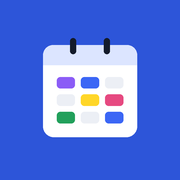
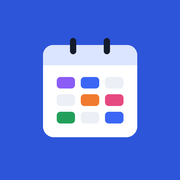
Add files via upload

Changed region(s): [[0.4444, 0.5, 0.5556, 0.6111]]

diff --git a/index.html b/index.html
@@ -27,7 +27,6 @@ html{-webkit-text-size-adjust:100%;-webkit-tap-highlight-color:transparent}
 :root{
   --paper:#F3F5F9; --surface:#FFFFFF; --ink:#141B2B; --muted:#576274; --line:#E0E5EE; --grid:#EEF1F6;
   --accent:#2D55D9; --accent-ink:#FFFFFF; --accent-soft:#E6ECFD;
-  --hl:rgba(255,222,40,.34); --hl-ink:#7A6200;
   --warn:#C2410C; --ok:#2F7D32; --danger:#B42318; --sun:#D23B3B; --sat:#2D55D9;
   --c0-bg:#E8EEFF; --c0-fg:#1A3483; --c0-bd:#3B66F5;
   --c1-bg:#F1EAFE; --c1-fg:#4C1D95; --c1-bd:#8B5CF6;
@@ -35,7 +34,7 @@ html{-webkit-text-size-adjust:100%;-webkit-tap-highlight-color:transparent}
   --c3-bg:#FDE8EF; --c3-fg:#881337; --c3-bd:#E64980;
   --c4-bg:#FFEDE3; --c4-fg:#7C2D12; --c4-bd:#F07A2E;
   --c5-bg:#DFF5F3; --c5-fg:#134E4A; --c5-bd:#14A39A;
-  --c6-bg:#FDF3D7; --c6-fg:#713F12; --c6-bd:#D99A00;
+  --c6-bg:#FDE7E7; --c6-fg:#8A1C1C; --c6-bd:#E5484D;
   --c7-bg:#ECEFF4; --c7-fg:#334155; --c7-bd:#7A889E;
   --f-display:"Do Hyeon","IBM Plex Sans KR",system-ui,sans-serif;
   --f-body:"IBM Plex Sans KR","Apple SD Gothic Neo","Malgun Gothic",system-ui,sans-serif;
@@ -44,7 +43,6 @@ html{-webkit-text-size-adjust:100%;-webkit-tap-highlight-color:transparent}
 @media (prefers-color-scheme: dark){:root:not([data-theme="light"]){
   --paper:#0E1219; --surface:#151A24; --ink:#EDF0F6; --muted:#A1ABBD; --line:#272F3F; --grid:#1B2230;
   --accent:#7393FF; --accent-ink:#0B1020; --accent-soft:#1E2848;
-  --hl:rgba(255,222,70,.13); --hl-ink:#E9D46A;
   --warn:#FB923C; --ok:#6BCB77; --danger:#F87171; --sun:#FF8A8A; --sat:#8FA8FF;
   --c0-bg:#1B2647; --c0-fg:#D3DDFF; --c0-bd:#6F8FFF;
   --c1-bg:#281D45; --c1-fg:#E4D6FF; --c1-bd:#A684FF;
@@ -52,13 +50,12 @@ html{-webkit-text-size-adjust:100%;-webkit-tap-highlight-color:transparent}
   --c3-bg:#381625; --c3-fg:#FFCCDD; --c3-bd:#F06A9A;
   --c4-bg:#382014; --c4-fg:#FFD3BB; --c4-bd:#F59152;
   --c5-bg:#10302D; --c5-fg:#B0EEE8; --c5-bd:#2EC4B6;
-  --c6-bg:#31280C; --c6-fg:#F8E2A2; --c6-bd:#E8B520;
+  --c6-bg:#3A1717; --c6-fg:#FFC9C9; --c6-bd:#F2555A;
   --c7-bg:#222936; --c7-fg:#D3DAE5; --c7-bd:#8F9BB0;
   color-scheme:dark}}
 :root[data-theme="dark"]{
   --paper:#0E1219; --surface:#151A24; --ink:#EDF0F6; --muted:#A1ABBD; --line:#272F3F; --grid:#1B2230;
   --accent:#7393FF; --accent-ink:#0B1020; --accent-soft:#1E2848;
-  --hl:rgba(255,222,70,.13); --hl-ink:#E9D46A;
   --warn:#FB923C; --ok:#6BCB77; --danger:#F87171; --sun:#FF8A8A; --sat:#8FA8FF;
   --c0-bg:#1B2647; --c0-fg:#D3DDFF; --c0-bd:#6F8FFF;
   --c1-bg:#281D45; --c1-fg:#E4D6FF; --c1-bd:#A684FF;
@@ -66,7 +63,7 @@ html{-webkit-text-size-adjust:100%;-webkit-tap-highlight-color:transparent}
   --c3-bg:#381625; --c3-fg:#FFCCDD; --c3-bd:#F06A9A;
   --c4-bg:#382014; --c4-fg:#FFD3BB; --c4-bd:#F59152;
   --c5-bg:#10302D; --c5-fg:#B0EEE8; --c5-bd:#2EC4B6;
-  --c6-bg:#31280C; --c6-fg:#F8E2A2; --c6-bd:#E8B520;
+  --c6-bg:#3A1717; --c6-fg:#FFC9C9; --c6-bd:#F2555A;
   --c7-bg:#222936; --c7-fg:#D3DAE5; --c7-bd:#8F9BB0;
   color-scheme:dark}
 *{box-sizing:border-box}
@@ -80,7 +77,7 @@ h1,h2,h3{text-wrap:balance}
 body::before{content:"";position:fixed;inset:0 0 auto;height:env(safe-area-inset-top,0px);z-index:13;background:var(--paper)}
 .top .wrap{display:flex;align-items:center;gap:18px;padding-block:10px}
 .logo{font-family:var(--f-display);font-size:30px;line-height:1;position:relative;isolation:isolate;border:0;background:none;padding:0 2px}
-.logo::after{content:"";position:absolute;left:-3px;right:-3px;bottom:3px;height:11px;background:var(--hl);z-index:-1;border-radius:2px}
+.logo{color:var(--accent)}
 .topnav{display:flex;gap:2px;flex:1}
 .topnav button{border:0;background:transparent;padding:7px 12px;border-radius:8px;color:var(--muted);font-size:14px}
 .topnav button:hover{color:var(--ink);background:var(--grid)}
@@ -109,7 +106,7 @@ main{padding-block:18px 60px}
 .fakeinput{display:flex;align-items:center;gap:10px;width:100%;text-align:left;border:1px solid var(--line);background:var(--surface);border-radius:12px;padding:13px 14px;color:var(--muted);font-size:15px}
 .fakeinput:hover{border-color:var(--accent)}
 .fakeinput .plus{width:26px;height:26px;border-radius:8px;background:var(--accent);color:var(--accent-ink);display:grid;place-items:center;font-size:18px;flex:none}
-.banner{display:flex;flex-wrap:wrap;gap:10px 14px;align-items:center;justify-content:space-between;border:1px solid var(--c6-bd);background:var(--c6-bg);color:var(--c6-fg);border-radius:12px;padding:12px 14px}
+.banner{display:flex;flex-wrap:wrap;gap:10px 14px;align-items:center;justify-content:space-between;border:1px solid color-mix(in srgb,var(--accent) 35%,transparent);background:var(--accent-soft);color:var(--ink);border-radius:12px;padding:12px 14px}
 .banner .acts{display:flex;gap:6px;flex-wrap:wrap}
 .welcome{display:grid;gap:12px}
 .welcome h3{margin:0;font-family:var(--f-display);font-weight:400;font-size:24px}
@@ -136,8 +133,12 @@ main{padding-block:18px 60px}
 .tlr .tx span{font-size:12px;color:var(--muted)}
 .tlr.task .bar{background:repeating-linear-gradient(180deg,var(--bd) 0 4px,transparent 4px 7px)}
 .tlr.past{opacity:.45}
-.tlr.gap .bar{background:var(--hl);min-height:22px}
-.tlr.gap .tx b{font-weight:500;color:var(--hl-ink)}
+.tlr.gap{padding:4px 0}
+.tlr.gap .bar{background:none;border-left:2px dashed var(--line);border-radius:0;min-height:18px;margin-left:1px}
+.tlr.gap .tm{opacity:.6}
+.tlr.gap .tx b{font-weight:400;font-size:12.5px;color:var(--muted)}
+.tlr.gap .tx span{display:none}
+.tlr.gap:hover .tx span{display:inline}
 .tlr.now-row .tm{color:var(--danger);font-weight:500}
 .duel{display:grid;gap:4px;padding:10px 0;border-top:1px solid var(--line)}
 .duel:first-child{border-top:0}
@@ -216,8 +217,6 @@ main{padding-block:18px 60px}
 .tcol span{position:absolute;right:6px;font-family:var(--f-mono);font-size:10.5px;color:var(--muted);transform:translateY(-7px)}
 .dcol{position:relative;border-left:1px solid var(--line);cursor:copy}
 .dcol.past{background-color:color-mix(in srgb,var(--grid) 40%,transparent)}
-.gap{position:absolute;left:0;right:0;background:var(--hl);pointer-events:none;display:flex;align-items:flex-end;justify-content:flex-end;padding:2px 6px}
-.gap span{font-size:10.5px;font-weight:700;color:var(--hl-ink)}
 .ev{position:absolute;border-radius:7px;padding:3px 7px;font-size:12.5px;line-height:1.3;overflow:hidden;border:1px solid color-mix(in srgb,var(--bd) 30%,transparent);border-left:4px solid var(--bd);cursor:pointer;text-align:left;display:flex;flex-direction:column;gap:1px;background:var(--bg);color:var(--fg)}
 .ev:hover{filter:brightness(.97);z-index:3}
 .ev .et{font-weight:700;white-space:nowrap;overflow:hidden;text-overflow:ellipsis}
@@ -232,7 +231,6 @@ main{padding-block:18px 60px}
 .legend{display:flex;flex-wrap:wrap;gap:8px 16px;padding:10px 14px;border-top:1px solid var(--line);font-size:12px;color:var(--muted)}
 .legend i{display:inline-block;width:14px;height:11px;border-radius:3px;vertical-align:-1px;margin-right:5px}
 .legend .p-task{background:repeating-linear-gradient(135deg,var(--c7-bg) 0 3px,var(--surface) 3px 6px);border:1px dashed var(--c7-bd)}
-.legend .p-gap{background:var(--hl)}
 .two{display:grid;grid-template-columns:minmax(0,1.4fr) minmax(0,1fr);gap:16px;align-items:start}
 .task{display:grid;grid-template-columns:auto minmax(0,1fr) auto;gap:4px 10px;align-items:start;padding:11px 0;border-top:1px solid var(--line)}
 .task:first-of-type{border-top:0}
@@ -592,10 +590,6 @@ function timeGrid(dates,px,mode){
     const busy=busyOf(all),pct=Math.min(100,busy/(DAY_E-DAY_S)*100),lvl=busy>=9*60?'high':busy>=6*60?'mid':'';
     if(!single)head+=`<button class="dh ${wkCls(i)} ${ds===todayS?'today':''}" data-openday="${ds}"><div class="top2"><span class="dn">${DAYS[i]}</span><span class="dd">${d.getDate()}</span>${busy>=9*60?'<span class="busy">과부하</span>':''}</div><div class="dens" title="바쁜 시간 ${hrs(busy)}"><i class="${lvl}" style="width:${pct}%"></i></div></button>`;
     let inner='';
-    if(d>=T){
-      const ws=ds===todayS?Math.max(DAY_S,Math.ceil(nowMin()/30)*30):DAY_S;
-      freeGaps(all,ws,DAY_E).forEach(g=>{if(g.e-g.s>=60)inner+=`<div class="gap" style="top:${(g.s/60-H0)*px}px;height:${(g.e-g.s)/60*px}px"><span>틈 ${hrs(g.e-g.s)}</span></div>`});
-    }
     layout(all.filter(x=>!state.hidden.includes(x.cat))).forEach(it=>{
       const k=reg(it);
       const top=(it.s/60-H0)*px,h=Math.max(18,(it.e-it.s)/60*px-2),w=100/it.lanes;
@@ -615,7 +609,7 @@ function timelineHTML(ds,withGaps){
   }
   rows.sort((a,b)=>a.s-b.s);
   let html=rows.map(r=>{
-    if(r.type==='gap')return `<button class="tlr gap" data-add data-date="${ds}" data-time="${toHM(r.g.s)}" data-end="${toHM(r.g.e)}"><span class="tm">${toHM(r.g.s)}<small>${toHM(r.g.e)}</small></span><span class="bar"></span><span class="tx"><b>빈 틈 ${hrs(r.g.e-r.g.s)}</b><span>눌러서 이 시간에 일정 넣기</span></span><span></span></button>`;
+    if(r.type==='gap')return `<button class="tlr gap" data-add data-date="${ds}" data-time="${toHM(r.g.s)}" data-end="${toHM(r.g.e)}"><span class="tm">${toHM(r.g.s)}<small>${toHM(r.g.e)}</small></span><span class="bar"></span><span class="tx"><b>빈 시간 ${hrs(r.g.e-r.g.s)}</b><span> · 눌러서 일정 넣기</span></span><span></span></button>`;
     const it=r.it,past=isToday&&it.e<=nm,cur=isToday&&it.s<=nm&&it.e>nm;
     const tag=it.kind==='repeat'?'↻ 매주':it.kind==='task'?'과제 작업':'';
     return `<button class="tlr ${it.kind==='task'?'task':''} ${past?'past':''} ${cur?'now-row':''}" data-ev="${reg(it)}" style="${cvars(it.cat)}"><span class="tm">${toHM(it.s)}<small>${toHM(it.e)}</small></span><span class="bar"></span><span class="tx"><b>${esc(it.title)}</b><span>${[cur?'지금 진행 중':'',tag,it.place].filter(Boolean).map(esc).join(' · ')}</span></span>${pill(it.cat)}</button>`;
@@ -712,7 +706,7 @@ function vCal(){
     const mon=mondayOf(d),e=addDays(mon,6);
     ttl=`${mon.getMonth()+1}월 ${mon.getDate()}일 – ${e.getMonth()===mon.getMonth()?'':(e.getMonth()+1)+'월 '}${e.getDate()}일`;
     body=`<section class="card calcard swipe">${timeGrid([0,1,2,3,4,5,6].map(i=>addDays(mon,i)),46,'week')}
-      <div class="legend"><span><i class="p-task"></i>과제 작업 (자동 배치)</span><span><i class="p-gap"></i>1시간 이상 빈 틈</span><span>↻ 매주 반복 · 날짜를 누르면 하루 보기 · 빈 칸을 누르면 그 시간에 추가</span></div></section>
+      <div class="legend"><span><i class="p-task"></i>과제 작업 (자동 배치)</span><span>↻ 매주 반복 · 날짜를 누르면 하루 보기 · 빈 칸을 누르면 그 시간에 추가</span></div></section>
       <div class="catsum">${weekCatSummary(mon)}</div>`;
   }else{
     ttl=`${d.getMonth()+1}월 ${d.getDate()}일 ${DAYS[wdIdx(d)]}요일`;

diff --git a/sw.js b/sw.js
@@ -1,5 +1,5 @@
 // 틈 캘린더 오프라인 캐시
-const CACHE='teum-v5';
+const CACHE='teum-v6';
 const CORE=['./','./index.html','./manifest.webmanifest','./icon-192.png','./icon-512.png','./icon-maskable-512.png','./apple-touch-icon.png'];
 self.addEventListener('install',e=>{e.waitUntil(caches.open(CACHE).then(c=>c.addAll(CORE)).then(()=>self.skipWaiting()))});
 self.addEventListener('activate',e=>{e.waitUntil(caches.keys().then(ks=>Promise.all(ks.filter(k=>k!==CACHE).map(k=>caches.delete(k)))).then(()=>self.clients.claim()))});

diff --git a/README.md b/README.md
@@ -19,7 +19,7 @@
 - 안드로이드: Chrome으로 열기 → ⋮ → **앱 설치** 또는 **홈 화면에 추가**
 
 ## 업데이트
-파일을 고친 뒤 같은 저장소에 다시 올리면, 앱을 다음에 열 때 새 버전이 반영돼요.
+바뀐 `index.html`과 `sw.js`를 같은 저장소에 다시 올리면 돼요. 저장소 화면에서 **Add file → Upload files**로 같은 이름의 파일을 올리면 덮어써져요. 1~2분 뒤 앱을 완전히 껐다가 다시 열면 새 버전이 보여요.
 
 ## 다른 기기로 일정 옮기기
 앱 맨 아래 **백업 내보내기**로 파일을 저장하고, 다른 기기에서 **백업 가져오기**로 불러와요.
